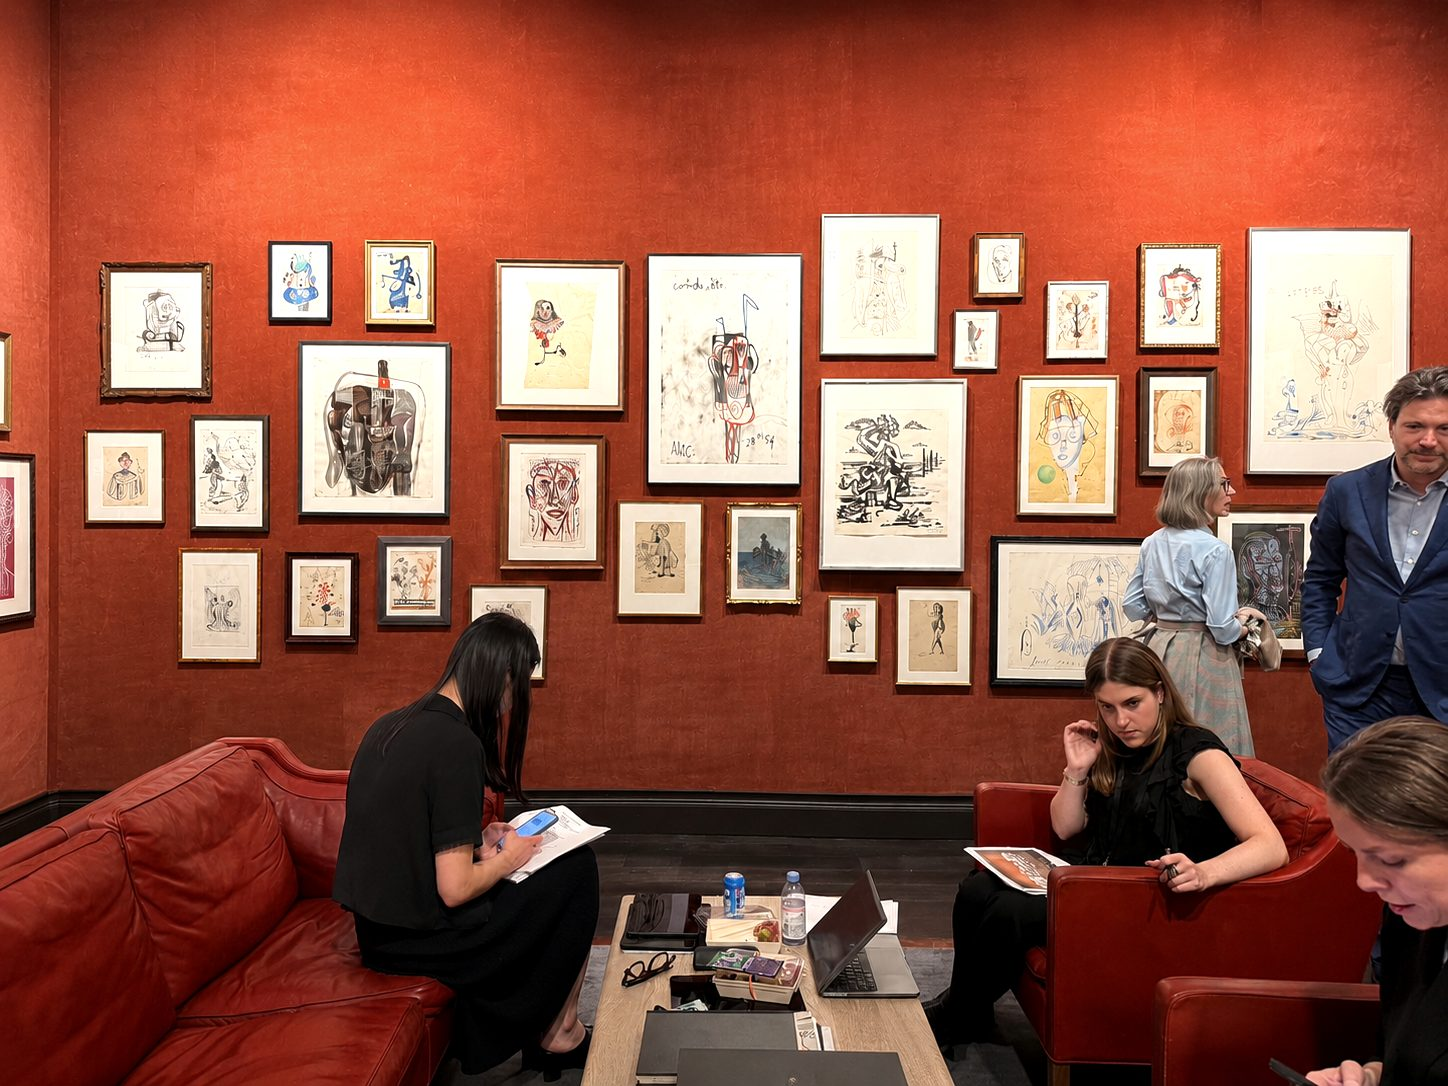
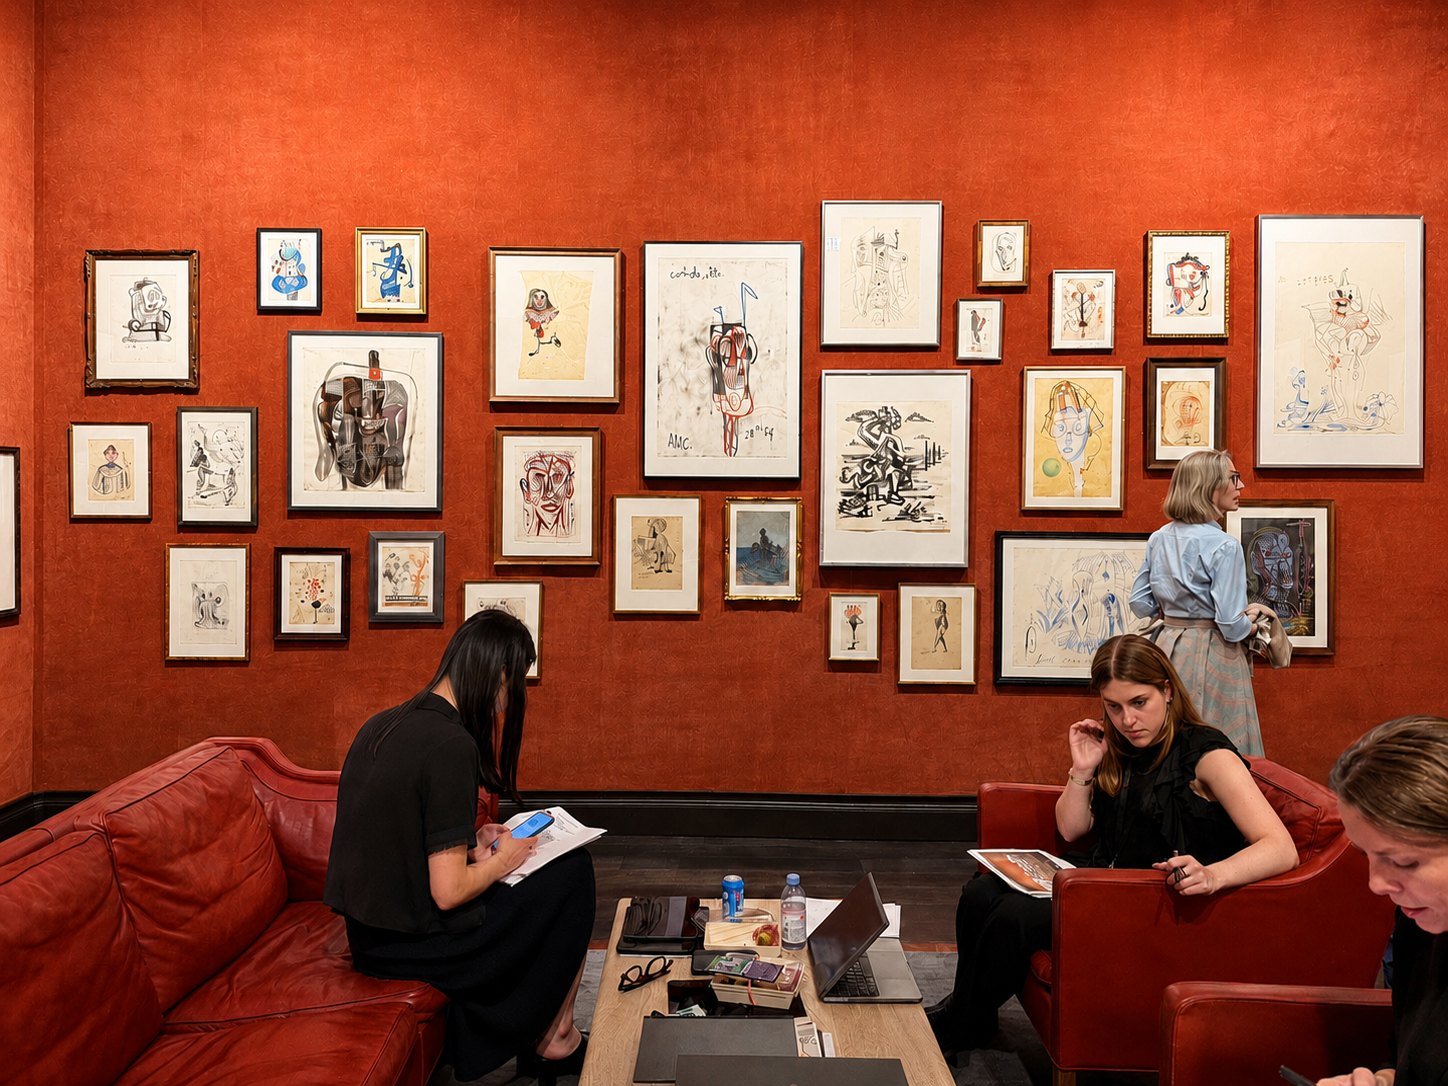
Journal hero: new red-wall salon photo (uncropped, replaces PC-crop variant)

diff --git a/journal.html b/journal.html
@@ -9,7 +9,7 @@
 <link rel="preconnect" href="https://fonts.googleapis.com">
 <link rel="preconnect" href="https://fonts.gstatic.com" crossorigin>
 <link href="https://fonts.googleapis.com/css2?family=Cormorant+Garamond:ital,wght@0,300;0,400;0,500;1,300&family=Inter:wght@300;400;500&family=Noto+Sans+JP:wght@300;400;500&family=Noto+Serif+JP:wght@300;400;500&display=swap" rel="stylesheet">
-<link rel="stylesheet" href="styles.css?v=20260827d">
+<link rel="stylesheet" href="styles.css?v=20260827e">
 </head>
 <body class="page-sub">
 
@@ -43,7 +43,7 @@
 </header>
 
 <!-- ===== Page Hero ===== -->
-<section class="page-hero" style="--hero-ar:1.333; background-image:url('images/hero-journal.jpg')">
+<section class="page-hero" style="--hero-ar:1.333; background-image:url('images/hero-journal.jpg?v=0827')">
   <div class="page-hero-overlay"></div>
   <div class="page-hero-inner container">
     <h1 class="page-hero-title">
@@ -93,6 +93,6 @@
   </div>
 </footer>
 
-<script src="script.js?v=20260827d"></script>
+<script src="script.js?v=20260827e"></script>
 </body>
 </html>

diff --git a/about.html b/about.html
@@ -9,7 +9,7 @@
 <link rel="preconnect" href="https://fonts.googleapis.com">
 <link rel="preconnect" href="https://fonts.gstatic.com" crossorigin>
 <link href="https://fonts.googleapis.com/css2?family=Cormorant+Garamond:ital,wght@0,300;0,400;0,500;1,300&family=Inter:wght@300;400;500&family=Noto+Sans+JP:wght@300;400;500&family=Noto+Serif+JP:wght@300;400;500&display=swap" rel="stylesheet">
-<link rel="stylesheet" href="styles.css?v=20260827d">
+<link rel="stylesheet" href="styles.css?v=20260827e">
 </head>
 <body class="page-sub">
 
@@ -170,7 +170,7 @@
       </div>
 
       <div class="profile-image">
-        <img src="images/about-profile.jpg?v=20260827d" alt="">
+        <img src="images/about-profile.jpg?v=20260827e" alt="">
       </div>
     </div>
   </div>
@@ -194,6 +194,6 @@
   </div>
 </footer>
 
-<script src="script.js?v=20260827d"></script>
+<script src="script.js?v=20260827e"></script>
 </body>
 </html>

diff --git a/index.html b/index.html
@@ -9,7 +9,7 @@
 <link rel="preconnect" href="https://fonts.googleapis.com">
 <link rel="preconnect" href="https://fonts.gstatic.com" crossorigin>
 <link href="https://fonts.googleapis.com/css2?family=Cormorant+Garamond:ital,wght@0,300;0,400;0,500;1,300&family=Inter:wght@300;400;500&family=Noto+Sans+JP:wght@300;400;500&family=Noto+Serif+JP:wght@300;400;500&display=swap" rel="stylesheet">
-<link rel="stylesheet" href="styles.css?v=20260827d">
+<link rel="stylesheet" href="styles.css?v=20260827e">
 </head>
 <body class="page-sub">
 
@@ -192,7 +192,7 @@
   </div>
 </footer>
 
-<script src="script.js?v=20260827d"></script>
+<script src="script.js?v=20260827e"></script>
 
 <!-- Instagram連携 (Behold JSONフィード): 最新投稿でタイルを差し替え。
      取得失敗・0件（例: コラボ投稿はAPI対象外）の間は上の静的タイルを表示 -->

diff --git a/404.html b/404.html
@@ -8,7 +8,7 @@
 <link rel="preconnect" href="https://fonts.googleapis.com">
 <link rel="preconnect" href="https://fonts.gstatic.com" crossorigin>
 <link href="https://fonts.googleapis.com/css2?family=Cormorant+Garamond:ital,wght@0,300;0,400;0,500;1,300&family=Inter:wght@300;400;500&family=Noto+Sans+JP:wght@300;400;500&family=Noto+Serif+JP:wght@300;400;500&display=swap" rel="stylesheet">
-<link rel="stylesheet" href="/styles.css?v=20260827d">
+<link rel="stylesheet" href="/styles.css?v=20260827e">
 </head>
 <body class="page-sub">
 
@@ -85,6 +85,6 @@
   </div>
 </footer>
 
-<script src="/script.js?v=20260827d"></script>
+<script src="/script.js?v=20260827e"></script>
 </body>
 </html>

diff --git a/calendar.html b/calendar.html
@@ -9,7 +9,7 @@
 <link rel="preconnect" href="https://fonts.googleapis.com">
 <link rel="preconnect" href="https://fonts.gstatic.com" crossorigin>
 <link href="https://fonts.googleapis.com/css2?family=Cormorant+Garamond:ital,wght@0,300;0,400;0,500;1,300&family=Inter:wght@300;400;500&family=Noto+Sans+JP:wght@300;400;500&family=Noto+Serif+JP:wght@300;400;500&display=swap" rel="stylesheet">
-<link rel="stylesheet" href="styles.css?v=20260827d">
+<link rel="stylesheet" href="styles.css?v=20260827e">
 </head>
 <body class="page-sub">
 
@@ -254,6 +254,6 @@
   </div>
 </footer>
 
-<script src="script.js?v=20260827d"></script>
+<script src="script.js?v=20260827e"></script>
 </body>
 </html>

diff --git a/contact.html b/contact.html
@@ -9,7 +9,7 @@
 <link rel="preconnect" href="https://fonts.googleapis.com">
 <link rel="preconnect" href="https://fonts.gstatic.com" crossorigin>
 <link href="https://fonts.googleapis.com/css2?family=Cormorant+Garamond:ital,wght@0,300;0,400;0,500;1,300&family=Inter:wght@300;400;500&family=Noto+Sans+JP:wght@300;400;500&family=Noto+Serif+JP:wght@300;400;500&display=swap" rel="stylesheet">
-<link rel="stylesheet" href="styles.css?v=20260827d">
+<link rel="stylesheet" href="styles.css?v=20260827e">
 </head>
 <body class="page-sub">
 
@@ -152,6 +152,6 @@
   </div>
 </footer>
 
-<script src="script.js?v=20260827d"></script>
+<script src="script.js?v=20260827e"></script>
 </body>
 </html>

diff --git a/services.html b/services.html
@@ -9,7 +9,7 @@
 <link rel="preconnect" href="https://fonts.googleapis.com">
 <link rel="preconnect" href="https://fonts.gstatic.com" crossorigin>
 <link href="https://fonts.googleapis.com/css2?family=Cormorant+Garamond:ital,wght@0,300;0,400;0,500;1,300&family=Inter:wght@300;400;500&family=Noto+Sans+JP:wght@300;400;500&family=Noto+Serif+JP:wght@300;400;500&display=swap" rel="stylesheet">
-<link rel="stylesheet" href="styles.css?v=20260827d">
+<link rel="stylesheet" href="styles.css?v=20260827e">
 </head>
 <body class="page-sub">
 
@@ -208,6 +208,6 @@
   </div>
 </footer>
 
-<script src="script.js?v=20260827d"></script>
+<script src="script.js?v=20260827e"></script>
 </body>
 </html>
